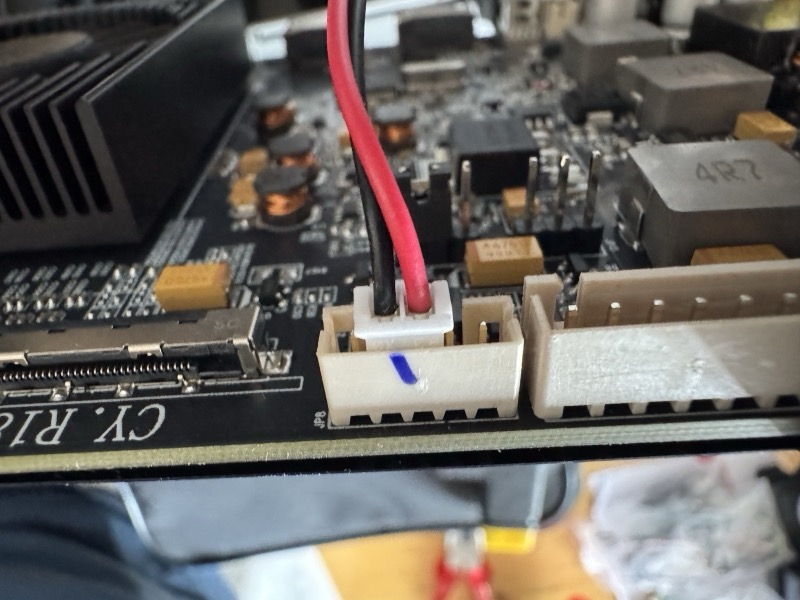
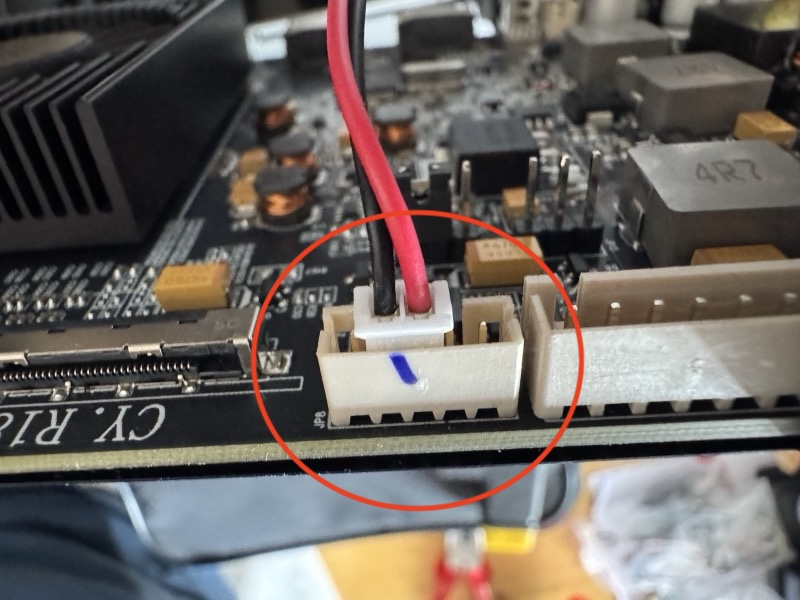
.

diff --git a/README.md b/README.md
@@ -156,12 +156,12 @@ I wanted to reuse power connector of iMac 2017. If you don't want to, you can sk
 
 ### Fans
 
-Power Supply is in iMac case so I need some fresh air there but also keep display quiet. So I modified Apple logo and placed Noctua fan there which (after small cutout on the left side) fits that space perfectly.
+Power Supply is in iMac case so I need some fresh air in there but also keep display quiet. So I modified Apple logo and placed Noctua fan there which (after small cutout on the left side) fits this space perfectly.
 
-- Use heatgun for a couple of seconds to get rid of the thin cover.
-- Cut like about 1mm of logo on the left side so fan fits perfectly.
-- Mark 4 holes for mounting the fan.
-- Then I used thin and very sharp knife to mark circle around fan so I know where to cut the circle to logo.
+- Use heatgun for a couple of seconds to get rid of the thin cover
+- Cut like about 1mm of logo on the left side so fan fits perfectly inside the logo
+- Mark 4 holes for mounting the fan
+- Then I used thin and very sharp knife to mark circle around fan so I know where to cut the circle to logo
 
 ![noctua 1](cimages/1200_fan%20top%20Noctua%201.jpeg)  
 ![noctua 2](cimages/1200_fan%20top%20Noctua%202.jpeg)  
@@ -173,7 +173,7 @@ Power Supply is in iMac case so I need some fresh air there but also keep displa
 
 ![noctua extension](cimages/800_fan%20top%20Noctua%20with%20extension%20cable.jpeg)
 
-- I placed probe of the module behind power supply (top part) so I can check highest temperature of the display when it's assembled.
+- I placed probe of the module behind power supply (top part) so I can check highest temperature area of the display.
 
 ![top probe](cimages/800_fan%20top%20Noctua%20probe%20place%20power.jpeg)
 
@@ -184,7 +184,9 @@ Power Supply is in iMac case so I need some fresh air there but also keep displa
 - Connect this connector (later) to driver board here. **Ignore cable colors on my pictures, just connect + on driver board to + cable on PWM module** and the same with -
 - Polarity is written on the back of the driver board but to be sure, **use multimeter to check polarity!**
 
-![jst xh noctua control connected to driver board](cimages/800_fan%20top%20Noctua%20power%20connection.jpeg)
+| Power for PWM control module for Noctua fan | Polarity. Check with multimeter! |
+| --- | --- |
+| ![jst xh noctua control connected to driver board](cimages/800_fan%20top%20Noctua%20power%20connection.jpeg) | - - + + + |
 
 - Solder connectors to the PWM module and connect it like this
 
